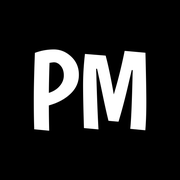
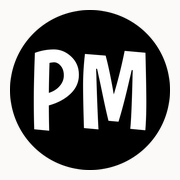
Make more professional 2

diff --git a/scripts/generate_brand_assets.py b/scripts/generate_brand_assets.py
@@ -1,6 +1,8 @@
 """Generate checked-in browser and social-sharing assets from the PM mark.
 
-Run this script after changing ``images/logo.png`` or the public positioning.
+Run this script after changing ``images/logo.png``, the public positioning, or
+the monthly score data — the social preview draws its figure from
+``data/full_weights - raw.csv``, so a new scoring run changes the card.
 Pillow is only a development dependency; generated files are served as-is.
 """
 
@@ -8,42 +10,89 @@ from __future__ import annotations
 
 from pathlib import Path
 
+import pandas as pd
 from PIL import Image, ImageDraw, ImageFont
 
 
 ROOT = Path(__file__).resolve().parents[1]
 STATIC = ROOT / "static"
+SCORES_CSV = ROOT / "data" / "full_weights - raw.csv"
+
 PAPER = "#FBFAF8"
 INK = "#1A1A1A"
 MUTED = "#6B6B6B"
-HAIRLINE = "#E4E1DA"
 ACCENT = "#3A34C0"
 
-
-def _font(candidates: list[str], size: int) -> ImageFont.FreeTypeFont:
-    for candidate in candidates:
-        path = Path(candidate)
-        if path.exists():
-            return ImageFont.truetype(str(path), size=size)
-    raise FileNotFoundError(f"No suitable font found in: {candidates}")
+# Reversed-out counterparts for the ink field the social card is drawn on.
+DARK_MUTED = "#A3A19B"
+DARK_RULE = "#3C3C3C"
+DARK_GRID = "#2E2E36"
+DARK_BAND = "#3B3B6E"
+ACCENT_LIGHT = "#A5A0F2"
 
 
 SERIF_CANDIDATES = [
-    "/System/Library/Fonts/Supplemental/Georgia.ttf",
+    "/System/Library/Fonts/NewYork.ttf",
     "/usr/share/fonts/truetype/dejavu/DejaVuSerif.ttf",
-]
-SERIF_BOLD_CANDIDATES = [
-    "/System/Library/Fonts/Supplemental/Georgia Bold.ttf",
-    "/usr/share/fonts/truetype/dejavu/DejaVuSerif-Bold.ttf",
 ]
 SANS_CANDIDATES = [
     "/System/Library/Fonts/SFNS.ttf",
     "/usr/share/fonts/truetype/dejavu/DejaVuSans.ttf",
 ]
+# A real bold face first, so the Linux fallback still renders bold; on macOS the
+# variable SFNS is picked up and the named instance below does the work.
 SANS_BOLD_CANDIDATES = [
-    "/System/Library/Fonts/SFNS.ttf",
     "/usr/share/fonts/truetype/dejavu/DejaVuSans-Bold.ttf",
+    "/System/Library/Fonts/SFNS.ttf",
 ]
+
+
+def _font(candidates: list[str], size: int, weight: str = "Regular") -> ImageFont.FreeTypeFont:
+    """Load the first available face, applying a variable-font weight if supported.
+
+    macOS ships SFNS and New York as variable fonts, where the named instance is
+    the only thing that actually produces a bold face — pointing at the same
+    ``.ttf`` twice, as an earlier revision did, silently rendered everything at
+    regular weight.
+    """
+    for candidate in candidates:
+        path = Path(candidate)
+        if not path.exists():
+            continue
+        font = ImageFont.truetype(str(path), size=size)
+        if weight != "Regular":
+            try:
+                font.set_variation_by_name(weight)
+            except OSError:
+                pass  # static face: the file itself already carries the weight
+        return font
+    raise FileNotFoundError(f"No suitable font found in: {candidates}")
+
+
+def _tracked(
+    draw: ImageDraw.ImageDraw,
+    xy: tuple[float, float],
+    text: str,
+    font: ImageFont.FreeTypeFont,
+    fill: str,
+    tracking: float = 0.0,
+    anchor_right: bool = False,
+) -> float:
+    """Draw letter-spaced text and return its width.
+
+    Pillow is built without raqm here, so tracking has to be applied by hand;
+    without it the small-caps labels lose the 0.16em rhythm the site uses.
+    """
+    extra = tracking * font.size
+    widths = [draw.textlength(char, font=font) for char in text]
+    total = sum(widths) + extra * max(len(text) - 1, 0)
+    x, y = xy
+    if anchor_right:
+        x -= total
+    for char, width in zip(text, widths):
+        draw.text((x, y), char, font=font, fill=fill)
+        x += width + extra
+    return total
 
 
 def _fit_logo(source: Image.Image, size: int, padding: int = 0) -> Image.Image:
@@ -53,15 +102,42 @@ def _fit_logo(source: Image.Image, size: int, padding: int = 0) -> Image.Image:
     return canvas
 
 
+def _on_paper(source: Image.Image) -> Image.Image:
+    """Flatten onto the paper tone.
+
+    Icons that are shown on an opaque tile must not be flattened onto Pillow's
+    default black: converting the transparent canvas straight to RGB turned the
+    apple-touch icon into a black square and erased the disc entirely.
+    """
+    backdrop = Image.new("RGB", source.size, PAPER)
+    backdrop.paste(source, (0, 0), source)
+    return backdrop
+
+
+def _reversed_mark(source: Image.Image) -> Image.Image:
+    """Swap the mark's black disc and white letters for use on the ink field."""
+    rgba = source.convert("RGBA")
+    alpha = rgba.getchannel("A")
+    letters = rgba.convert("L").point(lambda v: 255 if v > 128 else 0).convert("L")
+    letters = Image.composite(letters, Image.new("L", rgba.size, 0), alpha)
+    out = Image.new("RGBA", rgba.size, (0, 0, 0, 0))
+    out.paste(Image.new("RGBA", rgba.size, PAPER), (0, 0), alpha)
+    out.paste(Image.new("RGBA", rgba.size, INK), (0, 0), letters)
+    out.putalpha(alpha)
+    return out
+
+
 def generate_icons(logo: Image.Image) -> None:
+    # Browser favicons keep their transparency; tab backgrounds vary.
     for size in (16, 32):
         _fit_logo(logo, size).save(STATIC / f"favicon-{size}x{size}.png", optimize=True)
 
-    _fit_logo(logo, 180, padding=10).convert("RGB").save(
+    # Home-screen and launcher icons are composited onto an opaque tile.
+    _on_paper(_fit_logo(logo, 180, padding=10)).save(
         STATIC / "apple-touch-icon.png", optimize=True
     )
-    _fit_logo(logo, 192, padding=8).save(STATIC / "icon-192.png", optimize=True)
-    _fit_logo(logo, 512, padding=20).save(STATIC / "icon-512.png", optimize=True)
+    _on_paper(_fit_logo(logo, 192, padding=8)).save(STATIC / "icon-192.png", optimize=True)
+    _on_paper(_fit_logo(logo, 512, padding=20)).save(STATIC / "icon-512.png", optimize=True)
 
     logo.save(
         STATIC / "favicon.ico",
@@ -70,47 +146,113 @@ def generate_icons(logo: Image.Image) -> None:
     )
 
 
-def generate_social_preview(logo: Image.Image) -> None:
-    canvas = Image.new("RGB", (1200, 630), PAPER)
+def load_figure_data() -> tuple[pd.DataFrame, int, int]:
+    """Composite-factor ranks per company, plus the universe counts on the card.
+
+    The ``Cat-*`` columns are already percentile ranks across the universe, so
+    the figure plots stored values directly — nothing is rescaled for display.
+    """
+    raw = pd.read_csv(SCORES_CSV)
+    factors = [c for c in raw.columns if c.startswith("Cat-") and "Cat-XXX" not in c]
+    dimensions = [
+        c for c in raw.columns if c.endswith("Score100") or c.endswith("Probability100")
+    ]
+    if not factors or not dimensions:
+        raise ValueError(f"{SCORES_CSV.name} has no recognisable factor/dimension columns")
+    return raw[factors].astype(float), len(raw), len(dimensions)
+
+
+def _draw_factor_spread(
+    canvas: Image.Image, box: tuple[int, int, int, int], ranks: pd.DataFrame
+) -> None:
+    """One column per company: the range its factor ranks cover, and their mean.
+
+    Ordering by the mean is a display convention only. It lets the card show the
+    real finding at a glance — the ordering is coherent, yet most companies span
+    a wide band, because the factors disagree about the same business.
+    """
+    x0, y0, x1, y1 = box
+    mean = ranks.mean(axis=1)
+    order = mean.sort_values().index
+    low = ranks.min(axis=1).loc[order].to_numpy()
+    high = ranks.max(axis=1).loc[order].to_numpy()
+    centre = mean.loc[order].to_numpy()
+
     draw = ImageDraw.Draw(canvas)
+    height = y1 - y0
+    step = (x1 - x0) / len(order)
 
-    # An institutional research cover: one question, one mark, no ornamental
-    # dashboards or invented data visualisations.
-    draw.rectangle((0, 0, 1200, 8), fill=ACCENT)
+    for fraction in (0.25, 0.5, 0.75, 1.0):
+        gridline = y1 - fraction * height
+        draw.line((x0, gridline, x1, gridline), fill=DARK_GRID, width=1)
 
-    brand_font = _font(SERIF_BOLD_CANDIDATES, 30)
-    label_font = _font(SANS_BOLD_CANDIDATES, 14)
-    headline_font = _font(SERIF_CANDIDATES, 59)
+    for index in range(len(order)):
+        centre_x = x0 + index * step + step / 2
+        draw.rectangle(
+            (centre_x - 3, y1 - high[index] * height, centre_x + 3, y1 - low[index] * height),
+            fill=DARK_BAND,
+        )
+    for index in range(len(order)):
+        centre_x = x0 + index * step + step / 2
+        centre_y = y1 - centre[index] * height
+        draw.rectangle(
+            (centre_x - 4, centre_y - 2, centre_x + 4, centre_y + 2), fill=ACCENT_LIGHT
+        )
+
+    draw.line((x0, y1, x1, y1), fill=DARK_RULE, width=2)
+
+
+def generate_social_preview(logo: Image.Image) -> None:
+    """An ink-field research cover: the lab's claim, and the figure behind it.
+
+    The card is drawn dark because every feed it lands in is light grey — a
+    paper-white card dissolves into the timeline around it.
+    """
+    ranks, n_assets, n_dimensions = load_figure_data()
+
+    canvas = Image.new("RGB", (1200, 630), INK)
+    draw = ImageDraw.Draw(canvas)
+    draw.rectangle((0, 0, 1200, 7), fill=ACCENT)
+
+    mark = _fit_logo(_reversed_mark(logo), 34)
+    canvas.paste(mark, (72, 56), mark)
+
+    label_font = _font(SANS_BOLD_CANDIDATES, 15, "Bold")
+    _tracked(draw, (120, 65), "PRETTYMODELS AI", label_font, PAPER, 0.14)
+    _tracked(draw, (1128, 65), "AI RESEARCH LAB", label_font, DARK_MUTED, 0.14, anchor_right=True)
+    draw.line((72, 112, 1128, 112), fill=DARK_RULE, width=2)
+
+    headline_font = _font(SERIF_CANDIDATES, 50)
+    draw.text((72, 152), "Each score is a hypothesis.", font=headline_font, fill=PAPER)
+    draw.text((72, 212), "The market runs the experiment.", font=headline_font, fill=PAPER)
+
     subhead_font = _font(SANS_CANDIDATES, 20)
-    footer_font = _font(SANS_CANDIDATES, 16)
-
-    draw.text((68, 51), "PrettyModels AI", font=brand_font, fill=INK)
-    draw.text((69, 94), "AI RESEARCH LAB", font=label_font, fill=MUTED)
-    brief = "RESEARCH BRIEF · UPDATED MONTHLY"
-    brief_box = draw.textbbox((0, 0), brief, font=label_font)
-    draw.text((1132 - (brief_box[2] - brief_box[0]), 69), brief, font=label_font, fill=ACCENT)
-    draw.line((68, 132, 1132, 132), fill=HAIRLINE, width=2)
-
-    draw.text((68, 182), "Can AI evaluate", font=headline_font, fill=INK)
-    draw.text((68, 250), "public companies", font=headline_font, fill=INK)
-    draw.text((68, 318), "consistently?", font=headline_font, fill=INK)
     draw.text(
-        (71, 415),
-        "A public, out-of-sample test of model judgment.",
+        (73, 292),
+        f"{n_assets} companies scored on {n_dimensions} dimensions by frontier LLMs, "
+        "every month.",
         font=subhead_font,
-        fill=MUTED,
+        fill=DARK_MUTED,
     )
 
-    draw.line((806, 176, 806, 462), fill=HAIRLINE, width=2)
-    mark = _fit_logo(logo, 228)
-    canvas.paste(mark, (884, 202), mark)
+    _draw_factor_spread(canvas, (72, 378, 1128, 540), ranks)
 
-    draw.line((68, 536, 1132, 536), fill=HAIRLINE, width=2)
-    draw.text((68, 570), "PRETTYMODELS.AI", font=label_font, fill=INK)
-    footer = "PUBLIC MODEL RESEARCH"
-    footer_box = draw.textbbox((0, 0), footer, font=footer_font)
-    draw.text((1132 - (footer_box[2] - footer_box[0]), 568), footer, font=footer_font, fill=MUTED)
+    caption_font = _font(SANS_BOLD_CANDIDATES, 14, "Semibold")
+    _tracked(
+        draw,
+        (72, 566),
+        f"FIG. 1  ·  RANGE AND MEAN OF {ranks.shape[1]} COMPOSITE FACTOR RANKS, PER COMPANY",
+        caption_font,
+        DARK_MUTED,
+        0.10,
+    )
+    _tracked(draw, (1128, 566), "PRETTYMODELS.AI", caption_font, ACCENT_LIGHT, 0.12,
+             anchor_right=True)
 
+    # Social platforms cache og:image by URL indefinitely, so the tags point at
+    # the versioned name. The unversioned file is kept in step for any link
+    # already sitting in a crawler cache.
+    canvas.save(STATIC / "social-preview-v2.png", optimize=True)
     canvas.save(STATIC / "social-preview.png", optimize=True)
 
 

diff --git a/content.py b/content.py
@@ -3,11 +3,14 @@
 # --- Masthead / meta ---------------------------------------------------------
 BRAND = "PrettyModels AI"
 TAGLINE = "AI Research Lab"
-PAGE_TITLE = "PrettyModels AI — AI Research Lab"
+# Crawlers never wait for Streamlit's websocket, so the tags they actually read
+# are injected by deploy/nginx/http-metadata-map.conf. These constants set the
+# browser tab title and must be kept in step with that map's `default` values.
+PAGE_TITLE = "PrettyModels AI — Testing LLMs on Public-Market Outcomes"
 PAGE_ICON = "static/favicon-32x32.png"
 PAGE_DESCRIPTION = (
-    "PrettyModels AI studies whether large language models can evaluate public "
-    "companies consistently, using a public model portfolio as an empirical test."
+    "Can large language models evaluate public companies consistently? An AI "
+    "research lab that scores a fixed universe monthly and tests the result in public."
 )
 CANONICAL_URL = "https://www.prettymodels.ai/"
 

diff --git a/deploy/nginx/README.md b/deploy/nginx/README.md
@@ -33,6 +33,26 @@ JavaScript):
 
 ```bash
 curl -s https://www.prettymodels.ai/ | grep -o 'og:[^>]*'
-curl -I https://www.prettymodels.ai/app/static/social-preview.png
+curl -I https://www.prettymodels.ai/app/static/social-preview-v2.png
 curl -I https://www.prettymodels.ai/robots.txt
 ```
+
+Confirm the canonical host resolves the way the tags claim — a `www` canonical
+served from an `apex` host that does not redirect splits ranking signals across
+two URLs:
+
+```bash
+curl -sI https://prettymodels.ai/ | grep -i '^location'
+```
+
+## Refreshing the social card
+
+Facebook, LinkedIn and Slack cache `og:image` by URL and never re-fetch it on
+their own. After running `python scripts/generate_brand_assets.py`, a changed
+card only reaches people who have shared the link before if the filename
+changes too: bump `social-preview-vN.png` in the script and in the `sub_filter`
+line, then re-scrape once per platform.
+
+- LinkedIn: <https://www.linkedin.com/post-inspector/>
+- Facebook: <https://developers.facebook.com/tools/debug/>
+- X: <https://cards-dev.twitter.com/validator>
